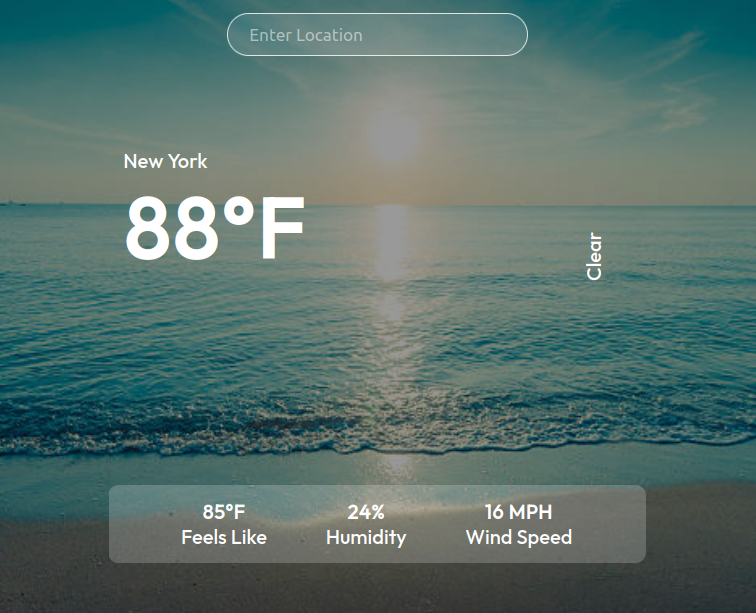
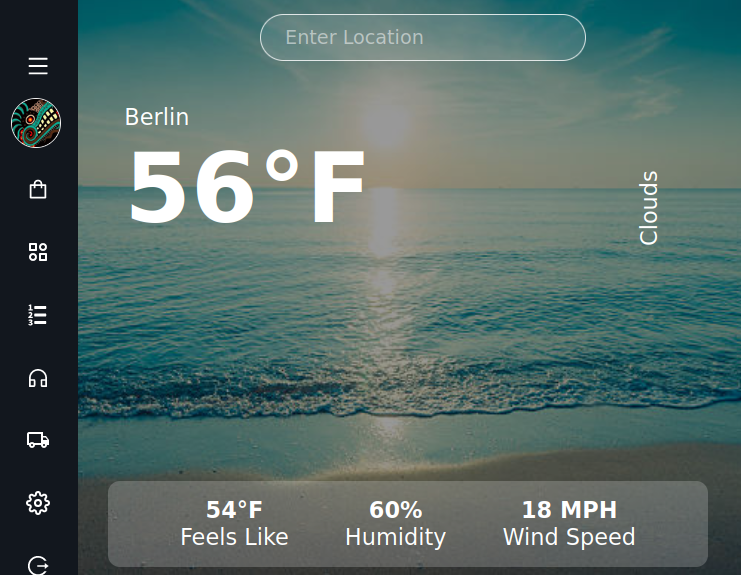
sidebar-rm

diff --git a/pages/sidebar.jsx b/pages/sidebar.jsx
@@ -1,55 +1,55 @@
-import Image from 'next/image';
-import React from 'react';
-import sidebarImg from '../public/assets/projects/sidebar.png';
-import { RiRadioButtonFill } from 'react-icons/ri';
-import Link from 'next/link';
+// import Image from 'next/image';
+// import React from 'react';
+// import sidebarImg from '../public/assets/projects/sidebar.png';
+// import { RiRadioButtonFill } from 'react-icons/ri';
+// import Link from 'next/link';
 
-const sidebar = () => {
-  return (
-    <div className='w-full' >
-      <div className='w-screen h-[30vh] lg:h-[40vh] relative' >
-        <div className='absolute top-0 left-0 w-full h-[30vh] lg:h-[40vh] bg-black/80 z-10' />
-        <Image className='absolute z-1' layout='fill' objectFit='cover' src={sidebarImg} alt='/' />
-        <div className='absolute top-[70%] max-w-[1240px] w-full left-[50%] right-[50%] translate-x-[-50%] translate-y-[-50%] text-white z-10 p-2' >
-          <h2 className='py-2' >Sidebar Menu</h2>
-          <h3>JavaScript</h3>
-        </div>
-      </div>
+// const sidebar = () => {
+//   return (
+//     <div className='w-full' >
+//       <div className='w-screen h-[30vh] lg:h-[40vh] relative' >
+//         <div className='absolute top-0 left-0 w-full h-[30vh] lg:h-[40vh] bg-black/80 z-10' />
+//         <Image className='absolute z-1' layout='fill' objectFit='cover' src={sidebarImg} alt='/' />
+//         <div className='absolute top-[70%] max-w-[1240px] w-full left-[50%] right-[50%] translate-x-[-50%] translate-y-[-50%] text-white z-10 p-2' >
+//           <h2 className='py-2' >Sidebar Menu</h2>
+//           <h3>JavaScript</h3>
+//         </div>
+//       </div>
 
-      <div className='max-w-[1240px] mx-auto p-2 grid md:grid-cols-5 gap-8 pt-8' >
-        <div className='col-span-4' >
-          <p>Project</p>
-          <h2>Overview</h2>
-          <p>
-            This is a sidebar Menu built with HTML, CSS and JavaScript.
-            It is deployed on Vercel. It is better displayed on desktop.
-          </p>
+//       <div className='max-w-[1240px] mx-auto p-2 grid md:grid-cols-5 gap-8 pt-8' >
+//         <div className='col-span-4' >
+//           <p>Project</p>
+//           <h2>Overview</h2>
+//           <p>
+//             This is a sidebar Menu built with HTML, CSS and JavaScript.
+//             It is deployed on Vercel. It is better displayed on desktop.
+//           </p>
           
-          <a href='https://sidebar-menu-sm.vercel.app/' target='_blank' ><button className='px-8 py-2 mt-4 mr-8' >Demo</button></a>
-          <a href='https://github.com/SALVADORPOETA/Sidebar-menu-sm' target='_blank' ><button className='px-8 py-2 mt-4' >Code</button></a>
-          <Link href='/#projects' >
-            <p className='underline cursor-pointer mt-20' >Back</p>
-          </Link> 
-        </div>
-        <div className='col-span-4 md:col-span-1 shadow-xl shadow-gray-400 rounded-xl p-4' >
-          <div className='p-2'>
-            <p className='text-center font-bold pb-2' >Technologies</p>
-            <div className='grid grid-cols-3 md:grid-cols-1'>
-                <p className='text-gray-600 py-2 flex items-center' >
-                    <RiRadioButtonFill className='pr-1' />HTML
-                </p>
-                <p className='text-gray-600 py-2 flex items-center' >
-                    <RiRadioButtonFill className='pr-1' />CSS
-                </p>
-                <p className='text-gray-600 py-2 flex items-center' >
-                    <RiRadioButtonFill className='pr-1' />JavaScript
-                </p>
-           </div>
-          </div>
-        </div>
-      </div>
-    </div>
-  )
-}
+//           <a href='https://sidebar-menu-sm.vercel.app/' target='_blank' ><button className='px-8 py-2 mt-4 mr-8' >Demo</button></a>
+//           <a href='https://github.com/SALVADORPOETA/Sidebar-menu-sm' target='_blank' ><button className='px-8 py-2 mt-4' >Code</button></a>
+//           <Link href='/#projects' >
+//             <p className='underline cursor-pointer mt-20' >Back</p>
+//           </Link> 
+//         </div>
+//         <div className='col-span-4 md:col-span-1 shadow-xl shadow-gray-400 rounded-xl p-4' >
+//           <div className='p-2'>
+//             <p className='text-center font-bold pb-2' >Technologies</p>
+//             <div className='grid grid-cols-3 md:grid-cols-1'>
+//                 <p className='text-gray-600 py-2 flex items-center' >
+//                     <RiRadioButtonFill className='pr-1' />HTML
+//                 </p>
+//                 <p className='text-gray-600 py-2 flex items-center' >
+//                     <RiRadioButtonFill className='pr-1' />CSS
+//                 </p>
+//                 <p className='text-gray-600 py-2 flex items-center' >
+//                     <RiRadioButtonFill className='pr-1' />JavaScript
+//                 </p>
+//            </div>
+//           </div>
+//         </div>
+//       </div>
+//     </div>
+//   )
+// }
 
-export default sidebar
+// export default sidebar

diff --git a/components/Projects.jsx b/components/Projects.jsx
@@ -20,7 +20,7 @@ import firebasegoogleImg from '../public/assets/projects/firebasegoogle.png';
 import loginImg from '../public/assets/projects/login.png';
 import powerlistImg from '../public/assets/projects/powerlist.png';
 import weatherImg from '../public/assets/projects/weather.png';
-import sidebarImg from '../public/assets/projects/sidebar.png';
+// import sidebarImg from '../public/assets/projects/sidebar.png';
 import calculatorImg from '../public/assets/projects/calculator.png';
 import quotesImg from '../public/assets/projects/quotes.png';
 import momentumImg from '../public/assets/projects/momentum.png';
@@ -203,16 +203,16 @@ const Projects = () => {
             <h2 className='py-4 mt-10' >Desktop Projects</h2>
             <div className='grid md:grid-cols-2 gap-8' >
               <ProjectItem 
+                title='Weather App ReactJS' 
+                backgroundImg={weatherImg}
+                technology='ReactJS / Axios / API' 
+                projectUrl='/weather' 
+              />            
+              <ProjectItem 
                 title='Search Filter' 
                 backgroundImg={filterImg} 
                 technology='ReactJS / Bootstrap'
                 projectUrl='/filter' 
-              />
-              <ProjectItem 
-                title='Sidebar Menu' 
-                backgroundImg={sidebarImg}
-                technology='JavaScript' 
-                projectUrl='/sidebar' 
               />
               <ProjectItem 
                 title='CSS Elements' 
@@ -229,12 +229,6 @@ const Projects = () => {
             </div>
             <h2 className='py-4 mt-10' >Other Projects</h2>
             <div className='grid md:grid-cols-2 gap-8' >
-              <ProjectItem 
-                title='Weather App ReactJS' 
-                backgroundImg={weatherImg}
-                technology='ReactJS / Axios / API' 
-                projectUrl='/weather' 
-              />            
               <ProjectItem 
                 title='Dropdown Menu' 
                 backgroundImg={dropdownImg} 

diff --git a/pages/weather.jsx b/pages/weather.jsx
@@ -22,7 +22,13 @@ const weather = () => {
           <h2>Overview</h2>
           <p>
             This is a weather app built with ReactJS. It gets the API with Axios.
-            It is deployed on Vercel. It is responsive for mobile and tablet.
+            I added a sidebar that was originally built with vanilla JavaScript 
+            but I used ChatGPT to translate it into ReactJS, 
+            then I fixed all the bugs manually. 
+            You can open the sidebar clicking on the menu icon.
+            The content of the sidebar is not related to the weather app 
+            but I let it as in the original so I could practice the react-icons integration.
+            It is deployed on Vercel and it's better displayed on desktop.
           </p>
           
           <a href='https://weather-app-sm.vercel.app/' target='_blank' ><button className='px-8 py-2 mt-4 mr-8' >Demo</button></a>
